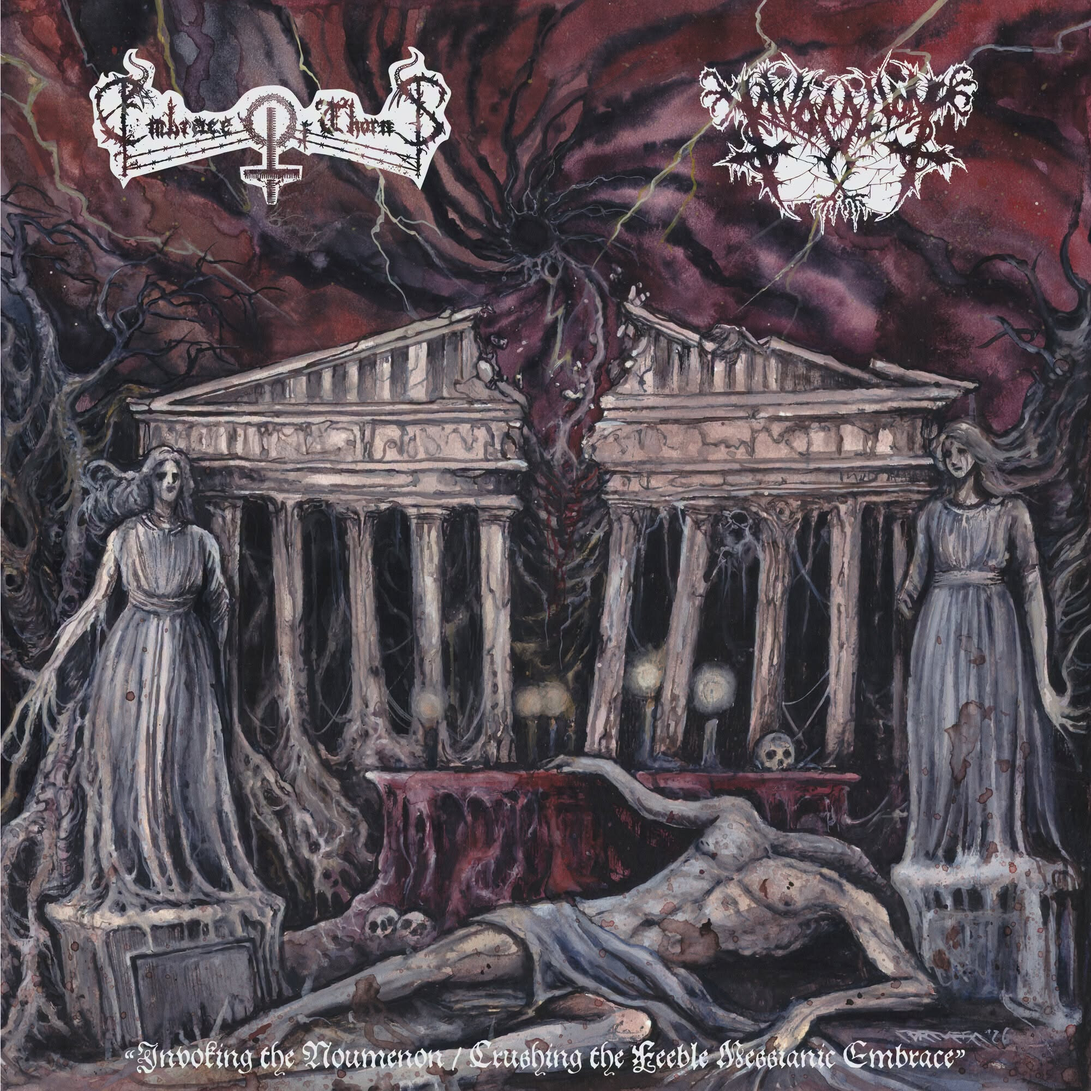
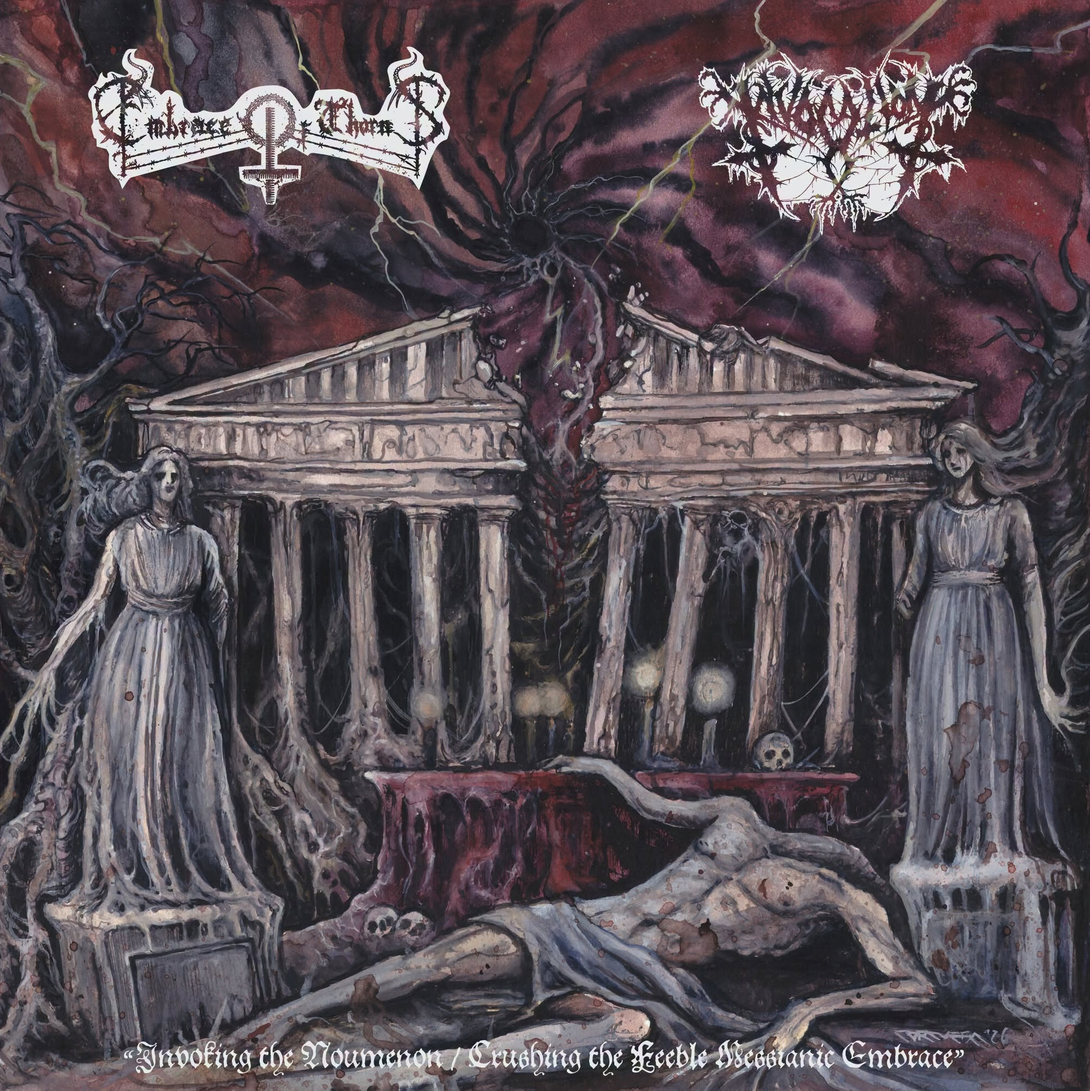
Persecution Index V2.14 dual featured

diff --git a/src/styles/global.css b/src/styles/global.css
@@ -268,3 +268,54 @@ p { color: #d1cec5; line-height: 1.65; }
   .related-grid { grid-template-columns: 1fr; }
   .related-card__body { min-height: 0; }
 }
+
+/* V2.14 — dual featured releases sharing the same release date */
+.featured-grid {
+  display: grid;
+  grid-template-columns: repeat(2, minmax(0, 1fr));
+  gap: 18px;
+  align-items: stretch;
+}
+.featured-grid .featured-card--dual {
+  display: flex;
+  flex-direction: column;
+  min-width: 0;
+  height: 100%;
+}
+.featured-grid .featured-card--dual .featured-card__media {
+  width: 100%;
+  max-width: none;
+  aspect-ratio: 1 / 1;
+  border-right: 0;
+  border-bottom: 1px solid var(--line);
+}
+.featured-grid .featured-card--dual .featured-card__media img {
+  width: 100%;
+  height: 100%;
+  object-fit: contain;
+  background: #050505;
+}
+.featured-grid .featured-card--dual .featured-card__body {
+  flex: 1;
+  justify-content: flex-start;
+  padding: 22px 24px 24px;
+}
+.featured-grid .featured-card--dual .featured-card__body h3 {
+  font-size: clamp(1.35rem, 2.15vw, 2rem);
+  line-height: 1.02;
+  margin-bottom: 12px;
+}
+.featured-grid .featured-card--dual .featured-card__body p {
+  margin-bottom: 0;
+}
+.featured-release-note {
+  color: var(--muted);
+  font-size: .68rem;
+  letter-spacing: .14em;
+  text-transform: uppercase;
+}
+@media (max-width: 760px) {
+  .featured-grid { grid-template-columns: 1fr; }
+  .featured-grid .featured-card--dual .featured-card__body { padding: 18px; }
+  .featured-release-note { display: none; }
+}

diff --git a/README.md b/README.md
@@ -1,4 +1,4 @@
-# Persecution Index — V2.13
+# Persecution Index — V2.14
 
 Astro site for an independent extreme metal journal & archive based in Chile.
 
@@ -102,3 +102,11 @@ Related entries now use an isolated fixed-size card layout, independent from fea
 - Added Embrace of Thorns / Invocation — *Invoking the Noumenon / Crushing the Feeble Messianic Embrace*.
 - Set the new split announcement as the homepage **Featured** entry.
 - Deathwards remains in the archive and From Chile section but is no longer the featured item.
+
+
+## V2.14
+
+- Replaced the Embrace of Thorns / Invocation split artwork with the corrected cover.
+- The homepage Featured section now displays **two equal editorial blocks**: Embrace of Thorns / Invocation and Deathwards.
+- Both Featured blocks highlight their shared **30 October 2026** release date.
+- Featured cards render as two columns on desktop and stack cleanly on mobile.

diff --git a/src/content/news/deathwards-realms-of-sin.md b/src/content/news/deathwards-realms-of-sin.md
@@ -3,7 +3,7 @@ title: "Deathwards announce debut album Realms of Sin"
 description: "Chilean death metal band Deathwards will release their debut album Realms of Sin on October 30, 2026 through Sepulchral Voice Records."
 pubDate: 2026-09-23
 author: "Editorial Staff"
-featured: false
+featured: true
 image: "/images/releases/deathwards-realms-of-sin.jpg"
 band: "Deathwards"
 release: "Realms of Sin"
